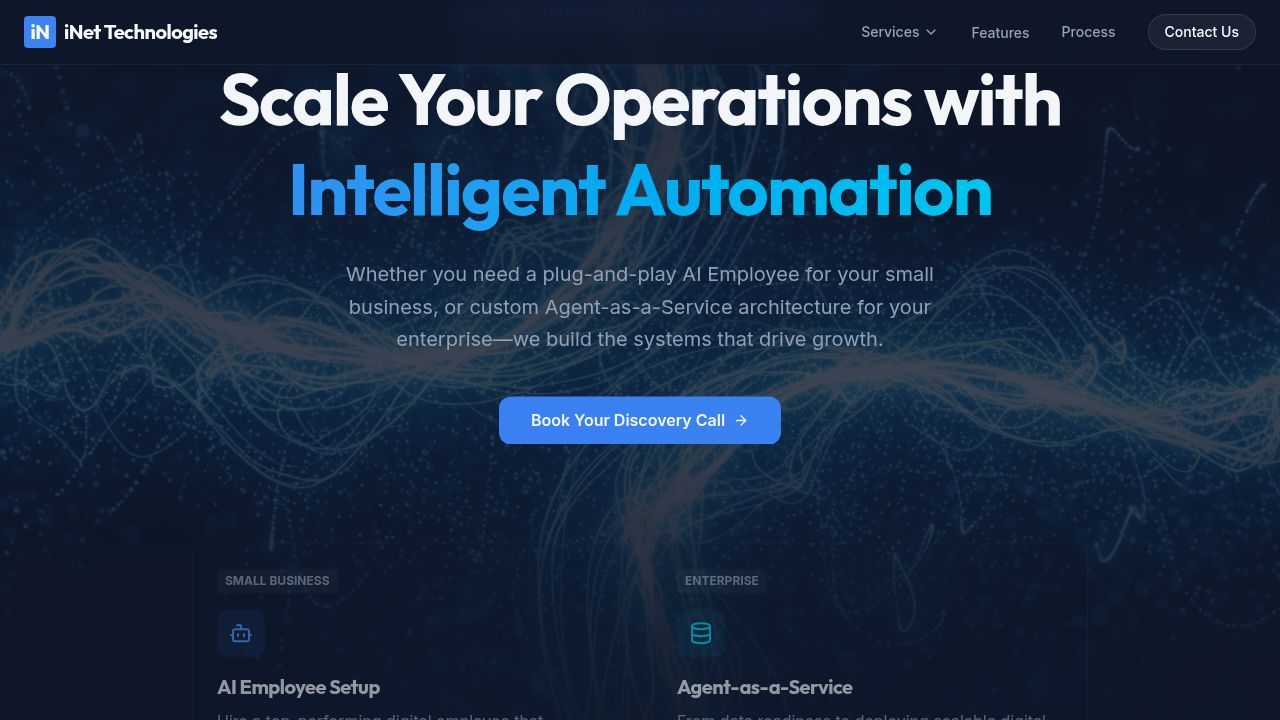
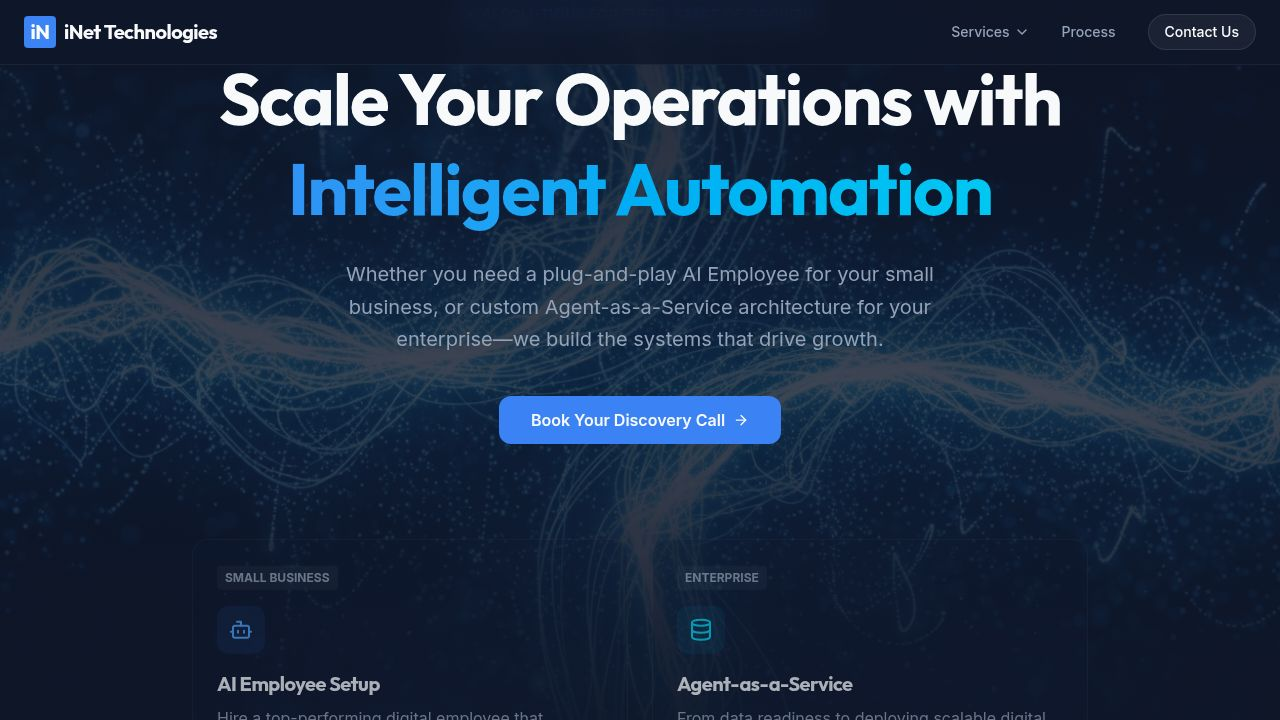
Update website to highlight company's extensive experience and technical team
Refactor client/src/components/Experience.tsx to include new copy emphasizing iNet Technologies' deep technical expertise and experienced staff.

Replit-Commit-Author: Agent
Replit-Commit-Session-Id: 6f62d353-3ca2-4708-a86d-86f4cfeebd65
Replit-Commit-Checkpoint-Type: full_checkpoint
Replit-Commit-Event-Id: b26d340a-1d10-433e-b923-119ff29b0a44
Replit-Commit-Screenshot-Url: https://storage.googleapis.com/screenshot-production-us-central1/fbea2236-60a9-4016-aefe-ba9f7ef475cb/6f62d353-3ca2-4708-a86d-86f4cfeebd65/Zl1121I
Replit-Helium-Checkpoint-Created: true

diff --git a/client/src/components/Experience.tsx b/client/src/components/Experience.tsx
@@ -44,10 +44,10 @@ export default function Experience() {
             </h2>
             
             <p className="text-lg text-muted-foreground mb-6">
-              The internet is flooded with overnight "AI Experts" selling fragile wrappers and hype. We are software engineers first. 
+              Most of these overnight "AI Agencies" lack real engineering experience. They sell fragile wrappers and hype, leaving you with systems that break when it matters most.
             </p>
             <p className="text-lg text-foreground/80 mb-8">
-              With over 25 years of experience integrating complex enterprise systems, we know that if the underlying architecture is weak, the AI will fail. We build for scale, security, and survival.
+              We are different. iNet Technologies is a true technical powerhouse, fully staffed with dedicated <strong>Developers, Business Analysts, QA Engineers, and System Architects</strong>. With over 25 years of experience integrating complex systems, we have the deep technical talent required to support our clients and build AI infrastructure that actually scales.
             </p>
 
             <div className="flex flex-wrap gap-6">
